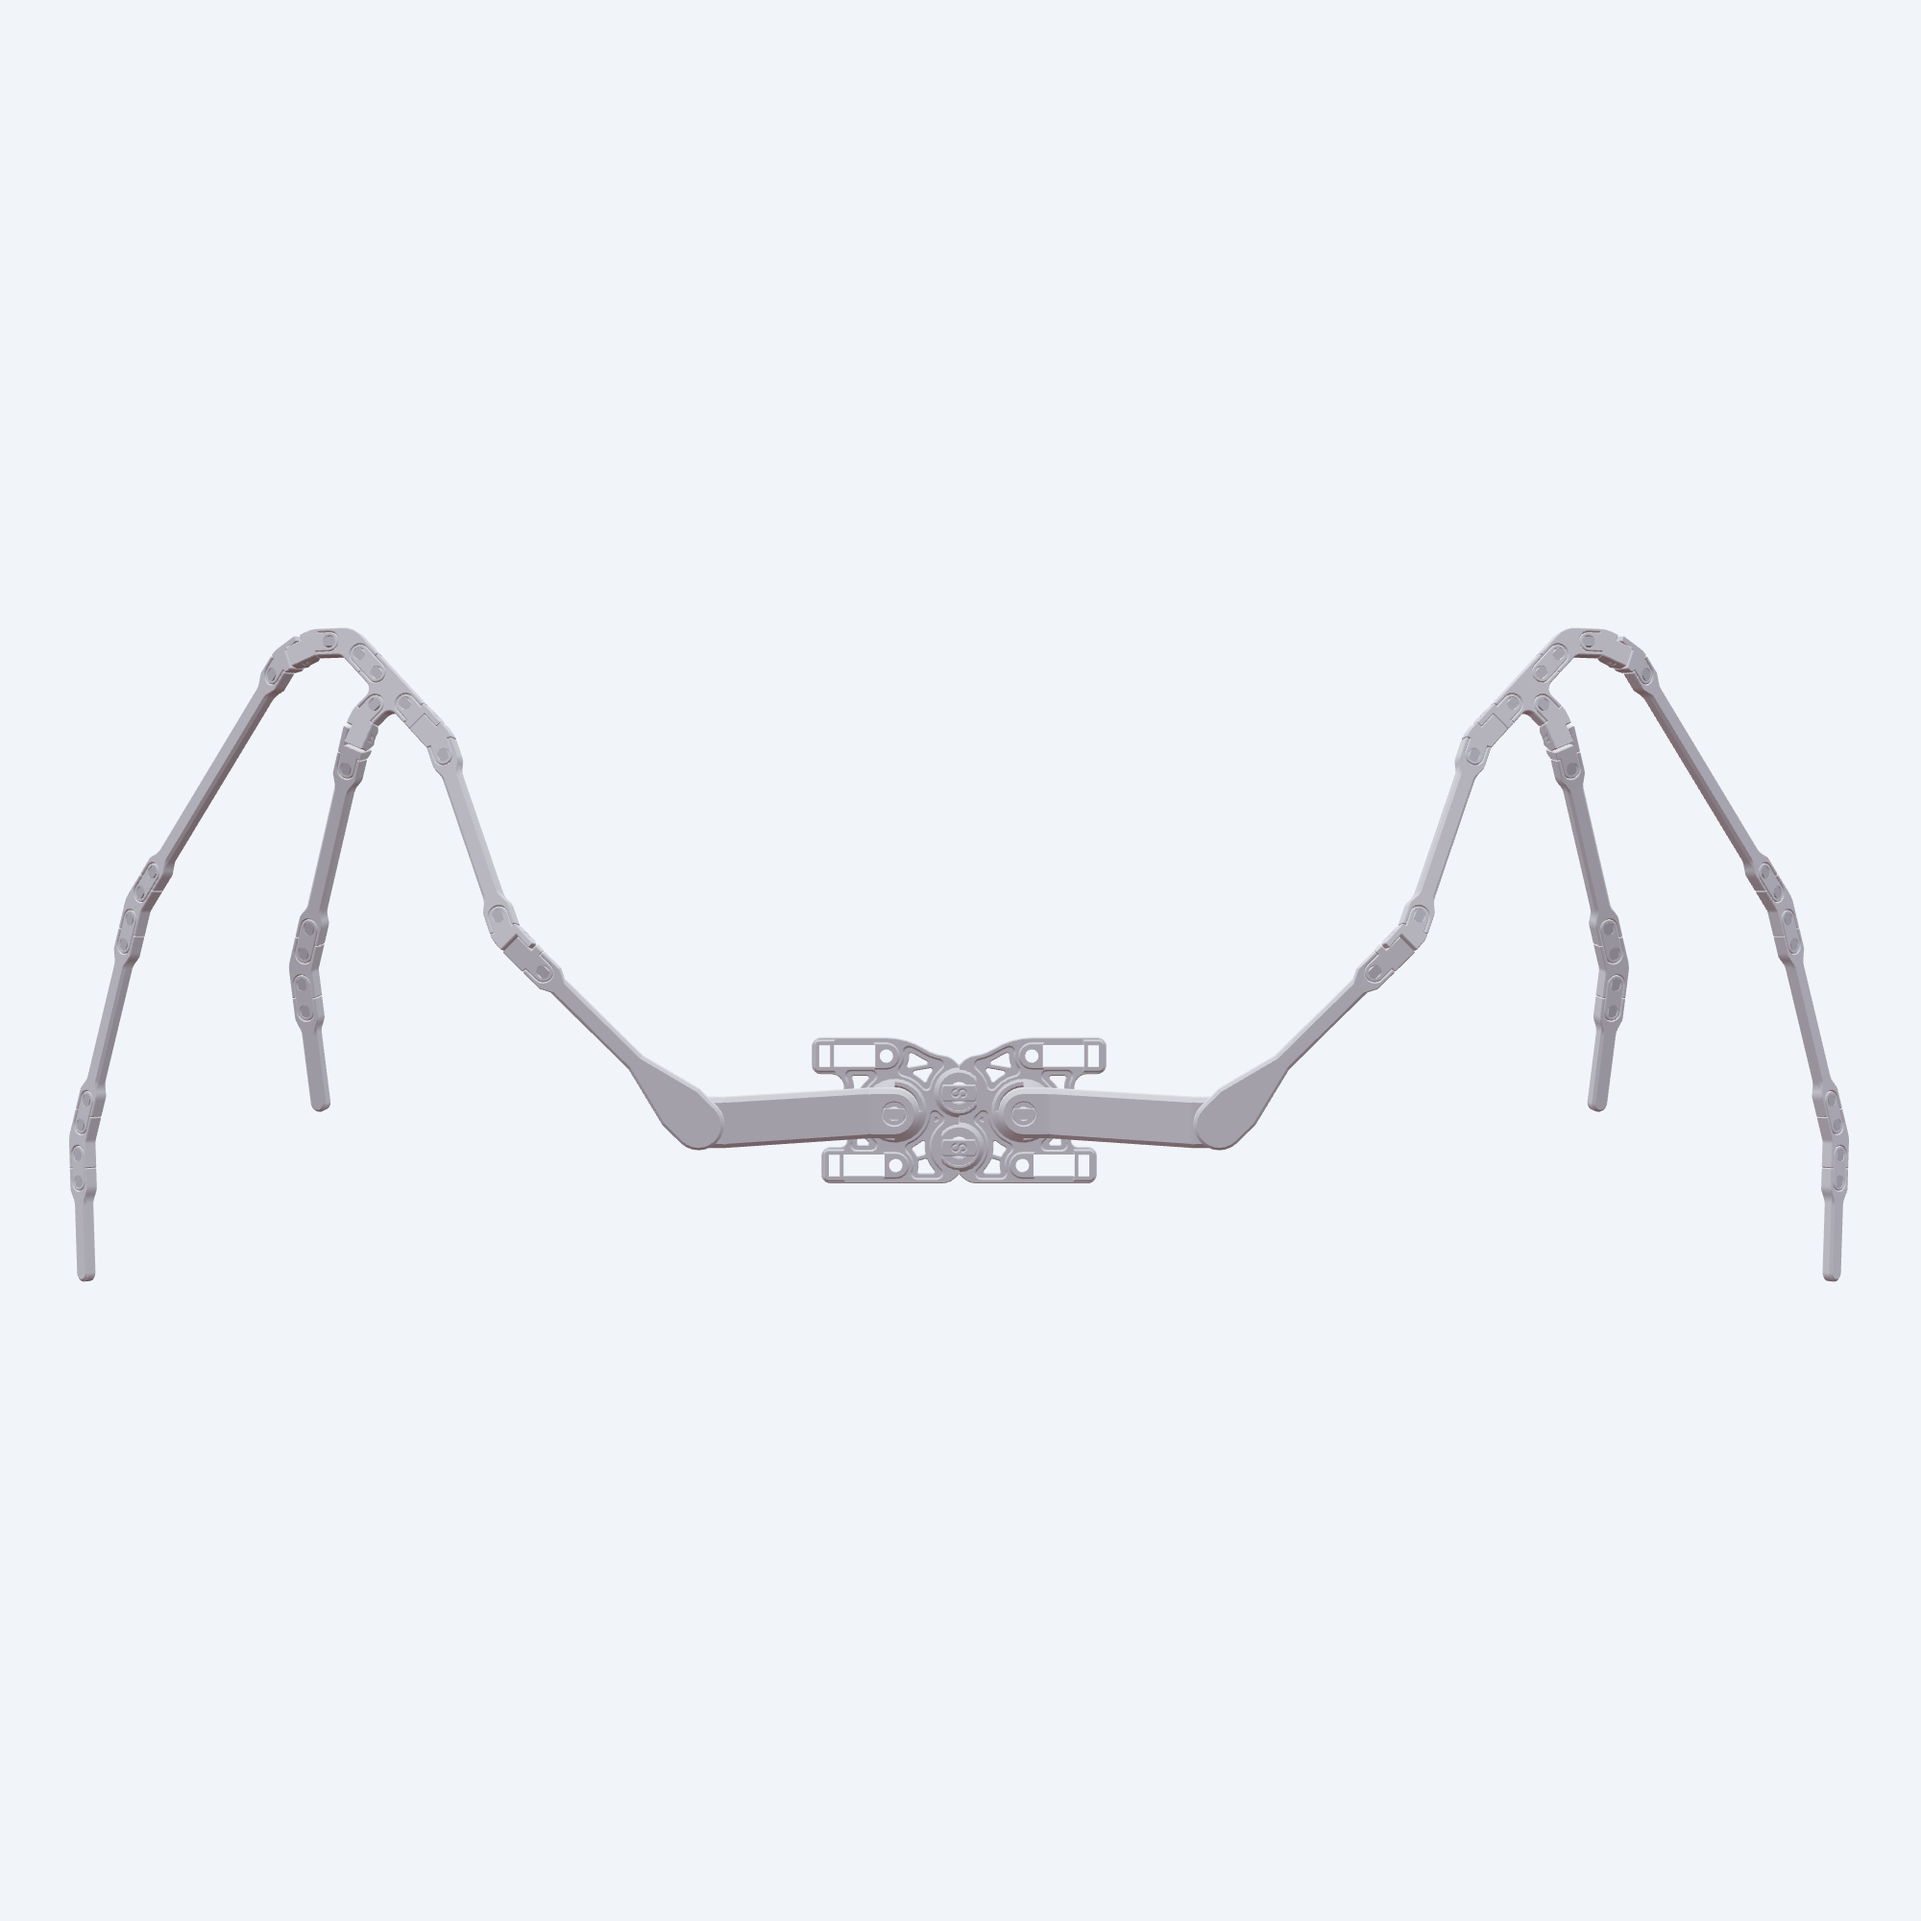
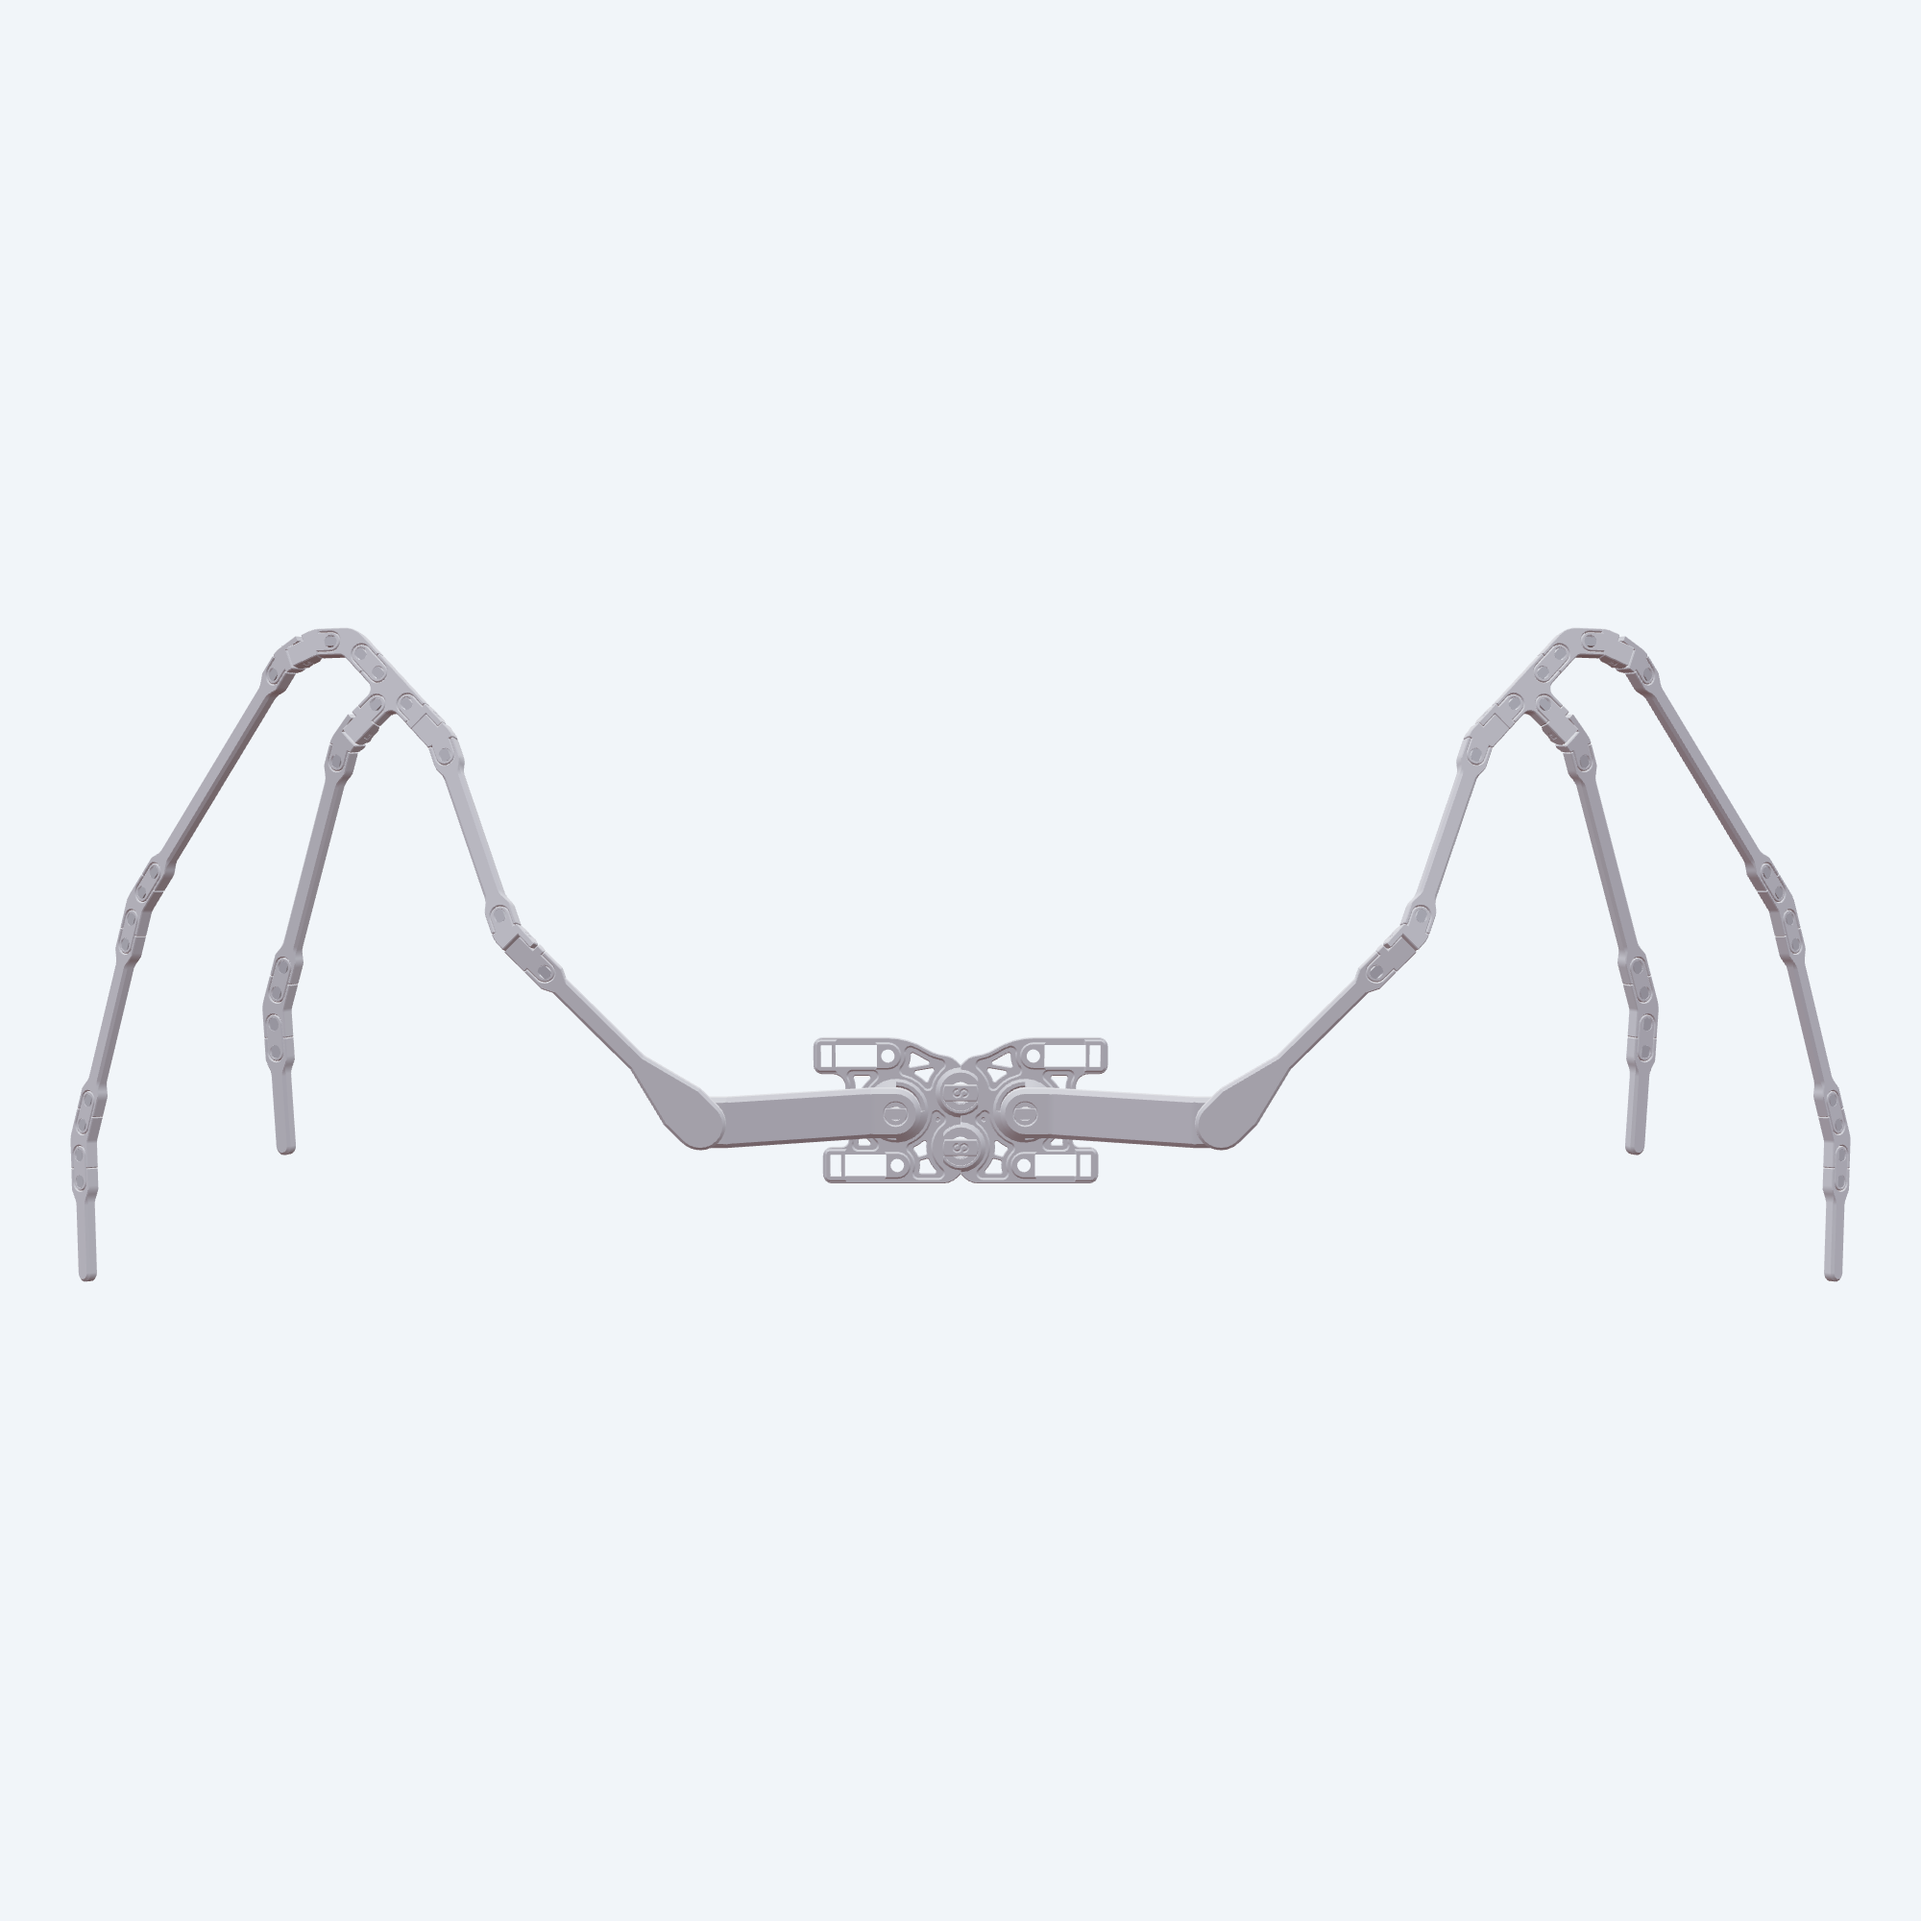
added photo mode in dev, and fixed angel preset

diff --git a/components/3D/scene/Scene.jsx b/components/3D/scene/Scene.jsx
@@ -23,9 +23,9 @@ export default function Scene() {
         {config.showStats && <Stats />}
         <Suspense fallback={null}>
           <Environment preset="city" />
-          <Sky sunPosition={[100, 20, 100]} />
+          {!config.pictureMode && <Sky sunPosition={[100, 20, 100]} />}
 
-          <Mannequin />
+          {!config.pictureMode && <Mannequin />}
           <Bounds fit>
             <CameraResetController />
             <WingAssembly />
@@ -35,13 +35,15 @@ export default function Scene() {
             Static radial shadow to avoid "ContactShadows" bugs with PivotControls.
             This creates a clean, blurred circular shadow at the center.
           */}
-          <Shadow
-            color="#000000"
-            opacity={0.15}
-            scale={[3, 3, 1]}
-            position={[0, 0, -0.12]}
-            rotation-x={-Math.PI / 2}
-          />
+          {!config.pictureMode && (
+            <Shadow
+              color="#000000"
+              opacity={0.15}
+              scale={[3, 3, 1]}
+              position={[0, 0, -0.12]}
+              rotation-x={-Math.PI / 2}
+            />
+          )}
         </Suspense>
 
         <OrbitControls makeDefault zoomSpeed={2} />

diff --git a/app/app/page.js b/app/app/page.js
@@ -10,13 +10,34 @@ import { Coffee, Heart } from "lucide-react";
 import DisclaimerModal from "@/components/UI/DisclaimerModal";
 import Tutorial from "@/components/UI/Tutorial";
 import Link from "next/link";
+import { useState, useEffect } from "react";
+import { config } from "@/config";
 
 export default function ConfiguratorPage() {
-  /*   return (
-    <main className="relative w-full h-dvh overflow-hidden">
-      <Scene />
-    </main>
-  ); */
+  const [showPanel, setShowPanel] = useState(true);
+
+  useEffect(() => {
+    if (!config.pictureMode) return;
+
+    const handleKeyDown = (e) => {
+      if (e.key === "F1") {
+        e.preventDefault();
+        setShowPanel((prev) => !prev);
+      }
+    };
+    window.addEventListener("keydown", handleKeyDown);
+    return () => window.removeEventListener("keydown", handleKeyDown);
+  }, []);
+
+  if (config.pictureMode) {
+    return (
+      <main className="relative w-full h-dvh overflow-hidden bg-white">
+        <Scene />
+        {showPanel && <ConfiguratorPanel />}
+      </main>
+    );
+  }
+
   return (
     <main className="relative w-full h-dvh overflow-hidden">
       {/* 3D Scene Layer */}

diff --git a/config.js b/config.js
@@ -1,8 +1,9 @@
 export const config = {
   showStats: false,
+  pictureMode: false,
   /** Hinge inclination threshold (degrees). If a hinge rotation exceeds this
    *  value a 3D warning is displayed in the scene via HingeWarnings.jsx */
-  hingeWarningAngleDeg: 50,
+  hingeWarningAngleDeg: 60,
   connectors: {
     add: {
       color: "#27272a",
